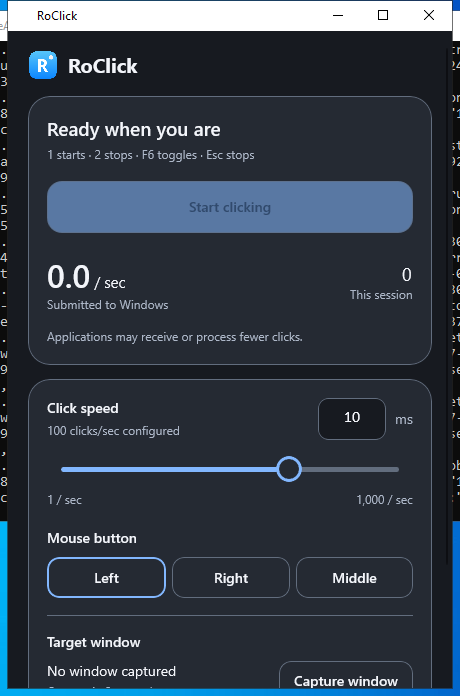
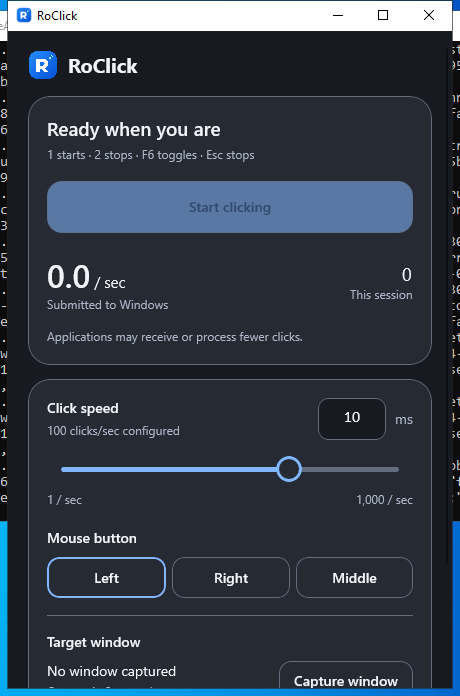
Refresh installed-app screenshots and branding validation [skip ci]

diff --git a/docs/VALIDATION.md b/docs/VALIDATION.md
@@ -9,7 +9,7 @@
 | Portable engine tests | Passed locally with GCC; simulated 60-second schedules, cancellation, configuration, partial failures, focus, destruction and capture |
 | TypeScript | Passed locally |
 | Release JS bundle | Passed locally with Metro (production Windows bundle and logo asset) |
-| Windows native build and installer | Passed on Windows Server 2022 in [run 41142581287](https://github.com/0xMasharipov/RoClick/actions/runs/41142581287), code commit `76ab42c` |
+| Windows native build and installer | Passed on Windows Server 2022 in [run 41144360233](https://github.com/0xMasharipov/RoClick/actions/runs/41144360233), code commit `b78324d` |
 | Installation / bundled launch / reinstall / uninstall | Passed in the same run; downloaded `smoke-install.json` confirms all four checks |
 | Clean Windows 10 and 11 without developer tools | Pending; a hosted build runner does not prove this |
 | Native light/dark screenshots | Captured in the same run, visually reviewed, and saved in [screenshots/](screenshots/); smoke test also verifies that opening Advanced does not produce an unedited press-duration validation message |

diff --git a/README.md b/README.md
@@ -16,7 +16,7 @@ The installed app works offline with its runtimes bundled. No Python or developm
 | --- | --- |
 | <img src="docs/screenshots/roclick-light.png" alt="Installed RoClick in light mode with click speed and mouse button controls" width="320"> | <img src="docs/screenshots/roclick-dark.png" alt="Installed RoClick in dark mode with click speed and mouse button controls" width="320"> |
 
-Actual installed-app captures from the [passing Windows installer run](https://github.com/0xMasharipov/RoClick/actions/runs/41142581287) on Windows Server 2022. The window scrolls to reveal more controls at the runner's available desktop size. Windows 10/11 acceptance remains pending.
+Actual installed-app captures from the [passing Windows installer run](https://github.com/0xMasharipov/RoClick/actions/runs/41144360233) on Windows Server 2022. The window scrolls to reveal more controls at the runner's available desktop size. Windows 10/11 acceptance remains pending.
 
 ## Use
 
